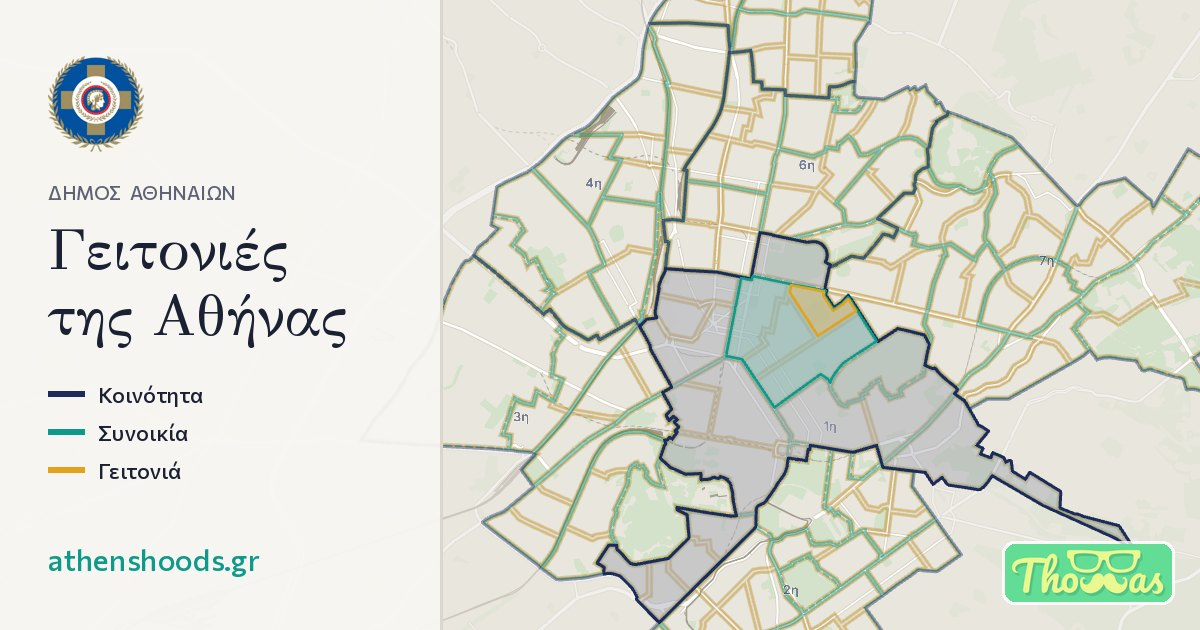
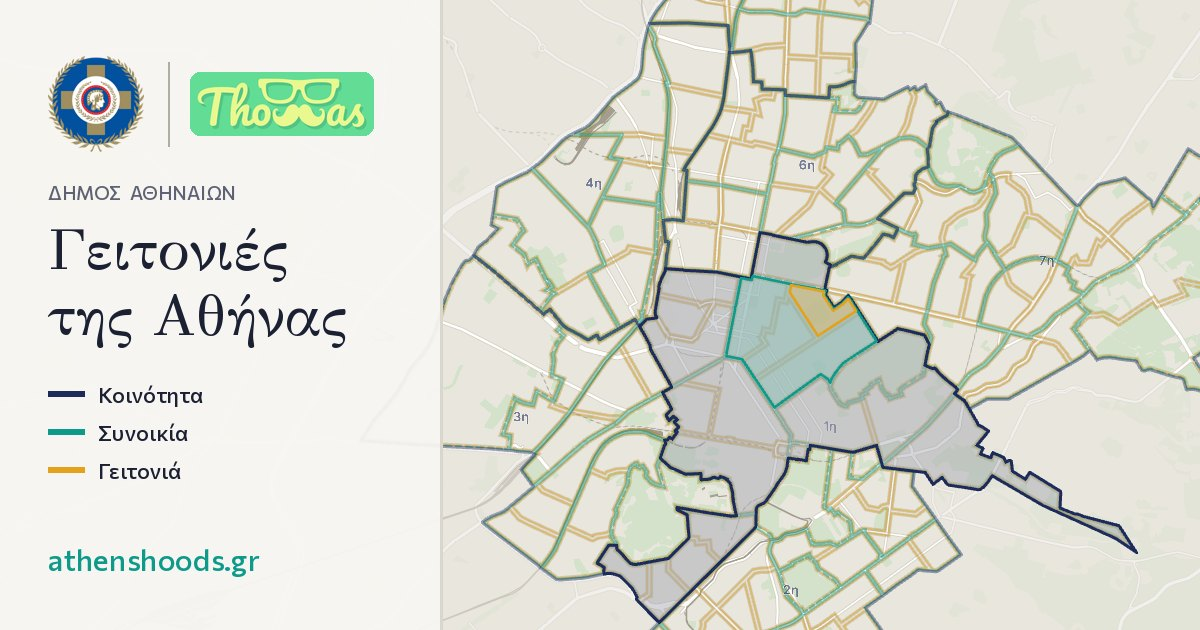
Σήματα: λογότυπο Thomas δεξιά από το έμβλημα του Δήμου, με γραμμή στη μέση
- κεφαλίδα κάρτας (υπολογιστής), σήμα πάνω αριστερά (κινητό),
  εικόνα κοινοποίησης: έμβλημα | γραμμή | Thomas
- αφαιρέθηκε από τη γραμμή απόδοσης

Claude-Session: https://claude.ai/code/session_01HpPahRUiogEiN2jcKADMRX

Changed region(s): [[0.1542, 0.0905, 0.3392, 0.2413], [0.8325, 0.8444, 0.9867, 0.9651]]

diff --git a/public/index.html b/public/index.html
@@ -22,7 +22,7 @@
 <link rel="apple-touch-icon" href="img/dimos-athinaion-emblem-192.png">
 <link rel="stylesheet" href="fonts/fonts.css">
 <link rel="stylesheet" href="vendor/maplibre-gl-4.7.1.css">
-<link rel="stylesheet" href="styles.css?v=6f0fa661">
+<link rel="stylesheet" href="styles.css?v=93a79b20">
 </head>
 <body>
 <div id="map" role="application" aria-label="Τρισδιάστατος χάρτης του Δήμου Αθηναίων"></div>
@@ -30,7 +30,11 @@
 <section class="card" id="card">
   <button class="handle" id="bsheet" type="button" aria-expanded="false"><span class="grip" aria-hidden="true"></span><span id="bsheet-t">Περισσότερα</span></button>
   <header class="brand">
-    <a class="emblem" href="https://www.cityofathens.gr/" target="_blank" rel="noopener" title="Δήμος Αθηναίων"><img src="img/dimos-athinaion-emblem-96.png" srcset="img/dimos-athinaion-emblem-96.png 1x, img/dimos-athinaion-emblem-192.png 2x" width="52" height="52" alt="Δήμος Αθηναίων"></a>
+    <div class="lockup">
+      <a class="emblem" href="https://www.cityofathens.gr/" target="_blank" rel="noopener" title="Δήμος Αθηναίων"><img src="img/dimos-athinaion-emblem-96.png" srcset="img/dimos-athinaion-emblem-96.png 1x, img/dimos-athinaion-emblem-192.png 2x" width="52" height="52" alt="Δήμος Αθηναίων"></a>
+      <span class="divider" aria-hidden="true"></span>
+      <img class="mark" src="img/thomas-mark-36.png" srcset="img/thomas-mark-36.png 1x, img/thomas-mark-72.png 2x" height="36" alt="Thomas" title="Σχεδιασμός &amp; ανάπτυξη: Thomas">
+    </div>
     <div>
       <p class="eyebrow">Δήμος Αθηναίων · 7 κοινότητες · 38 συνοικίες · 129 γειτονιές</p>
       <h1>Γειτονιές της Αθήνας</h1>
@@ -60,7 +64,7 @@
   <p class="note more"><span class="sw dash"></span>Διακεκομμένη γραμμή: χώρος ή μη θεσμική περιοχή, όπως ο Λυκαβηττός.</p>
 </section>
 
-<a class="emblem-m" href="https://www.cityofathens.gr/" target="_blank" rel="noopener" title="Δήμος Αθηναίων"><img src="img/dimos-athinaion-emblem-96.png" width="40" height="40" alt="Δήμος Αθηναίων"></a>
+<div class="emblem-m"><a href="https://www.cityofathens.gr/" target="_blank" rel="noopener" title="Δήμος Αθηναίων"><img src="img/dimos-athinaion-emblem-96.png" width="36" height="36" alt="Δήμος Αθηναίων"></a><span class="divider" aria-hidden="true"></span><img class="mark" src="img/thomas-mark-36.png" srcset="img/thomas-mark-36.png 1x, img/thomas-mark-72.png 2x" height="26" alt="Thomas" title="Σχεδιασμός &amp; ανάπτυξη: Thomas"></div>
 
 <div class="tools">
   <button id="b3d" type="button" aria-pressed="false">3Δ</button>
@@ -73,7 +77,6 @@
   Χάρτης &amp; διευθύνσεις: © <a href="https://www.openstreetmap.org/copyright" target="_blank" rel="noopener">OpenStreetMap</a> contributors ·
   <a href="https://maplibre.org/" target="_blank" rel="noopener">MapLibre</a> ·
   <a href="LICENSE.txt" target="_blank" rel="noopener">Ανοιχτός κώδικας</a> (EUPL-1.2)</span>
-  <span class="by">· <img src="img/thomas-40.png" srcset="img/thomas-40.png 1x, img/thomas-80.png 2x" height="20" alt="Thomas" title="Σχεδιασμός &amp; ανάπτυξη: Thomas"></span>
 </footer>
 
 <script src="vendor/maplibre-gl-4.7.1.js"></script>

diff --git a/public/styles.css b/public/styles.css
@@ -122,20 +122,22 @@ label.find{display:grid;gap:6px;font-size:12px;color:var(--muted)}
 #glist li[aria-selected="true"]{box-shadow:inset 3px 0 0 var(--c-g)}
 #glist li.empty{cursor:default;color:var(--muted);font-size:13px}
 
-/* σήματα */
-.brand{display:flex;gap:14px;align-items:center}
+/* σήματα: έμβλημα Δήμου | γραμμή | λογότυπο Thomas */
+.brand{display:grid;gap:14px}
 .brand .eyebrow{margin-bottom:6px}
-.brand h1{font-size:26px}
+.lockup{display:flex;align-items:center;gap:14px}
+.lockup .divider,.emblem-m .divider{align-self:stretch;width:1px;background:var(--rule)}
+.lockup .mark{height:36px;width:auto;border-radius:7px;display:block}
 .emblem{flex:none;display:block;line-height:0;border-radius:50%}
 .emblem img{width:52px;height:52px;display:block}
 .emblem-m{display:none}
-.credits .by{display:inline-flex;align-items:center;gap:5px;vertical-align:middle}
-.credits .by img{height:20px;width:auto;border-radius:4px;display:block}
-.emblem:focus-visible,.emblem-m:focus-visible{outline:2px solid var(--focus);outline-offset:3px}
+.emblem:focus-visible,.emblem-m a:focus-visible{outline:2px solid var(--focus);outline-offset:3px}
 @media (max-width:640px){
   .brand{display:none}
-  .emblem-m{display:block;position:absolute;z-index:2;top:calc(10px + env(safe-area-inset-top,0px));left:max(12px,env(safe-area-inset-left,0px));
-    padding:4px;border-radius:50%;background:var(--card);border:1px solid var(--rule);line-height:0;box-shadow:0 4px 14px -8px #0006}
-  .emblem-m img{width:40px;height:40px;display:block}
-  .credits .by img{height:18px}
+  .emblem-m{display:flex;align-items:center;gap:10px;position:absolute;z-index:2;top:calc(10px + env(safe-area-inset-top,0px));left:max(12px,env(safe-area-inset-left,0px));
+    padding:5px 10px 5px 5px;border-radius:999px;background:var(--card);border:1px solid var(--rule);box-shadow:0 4px 14px -8px #0006}
+  .emblem-m a{display:block;line-height:0;border-radius:50%}
+  .emblem-m img{display:block}
+  .emblem-m a img{width:36px;height:36px}
+  .emblem-m .mark{height:26px;width:auto;border-radius:5px}
 }
